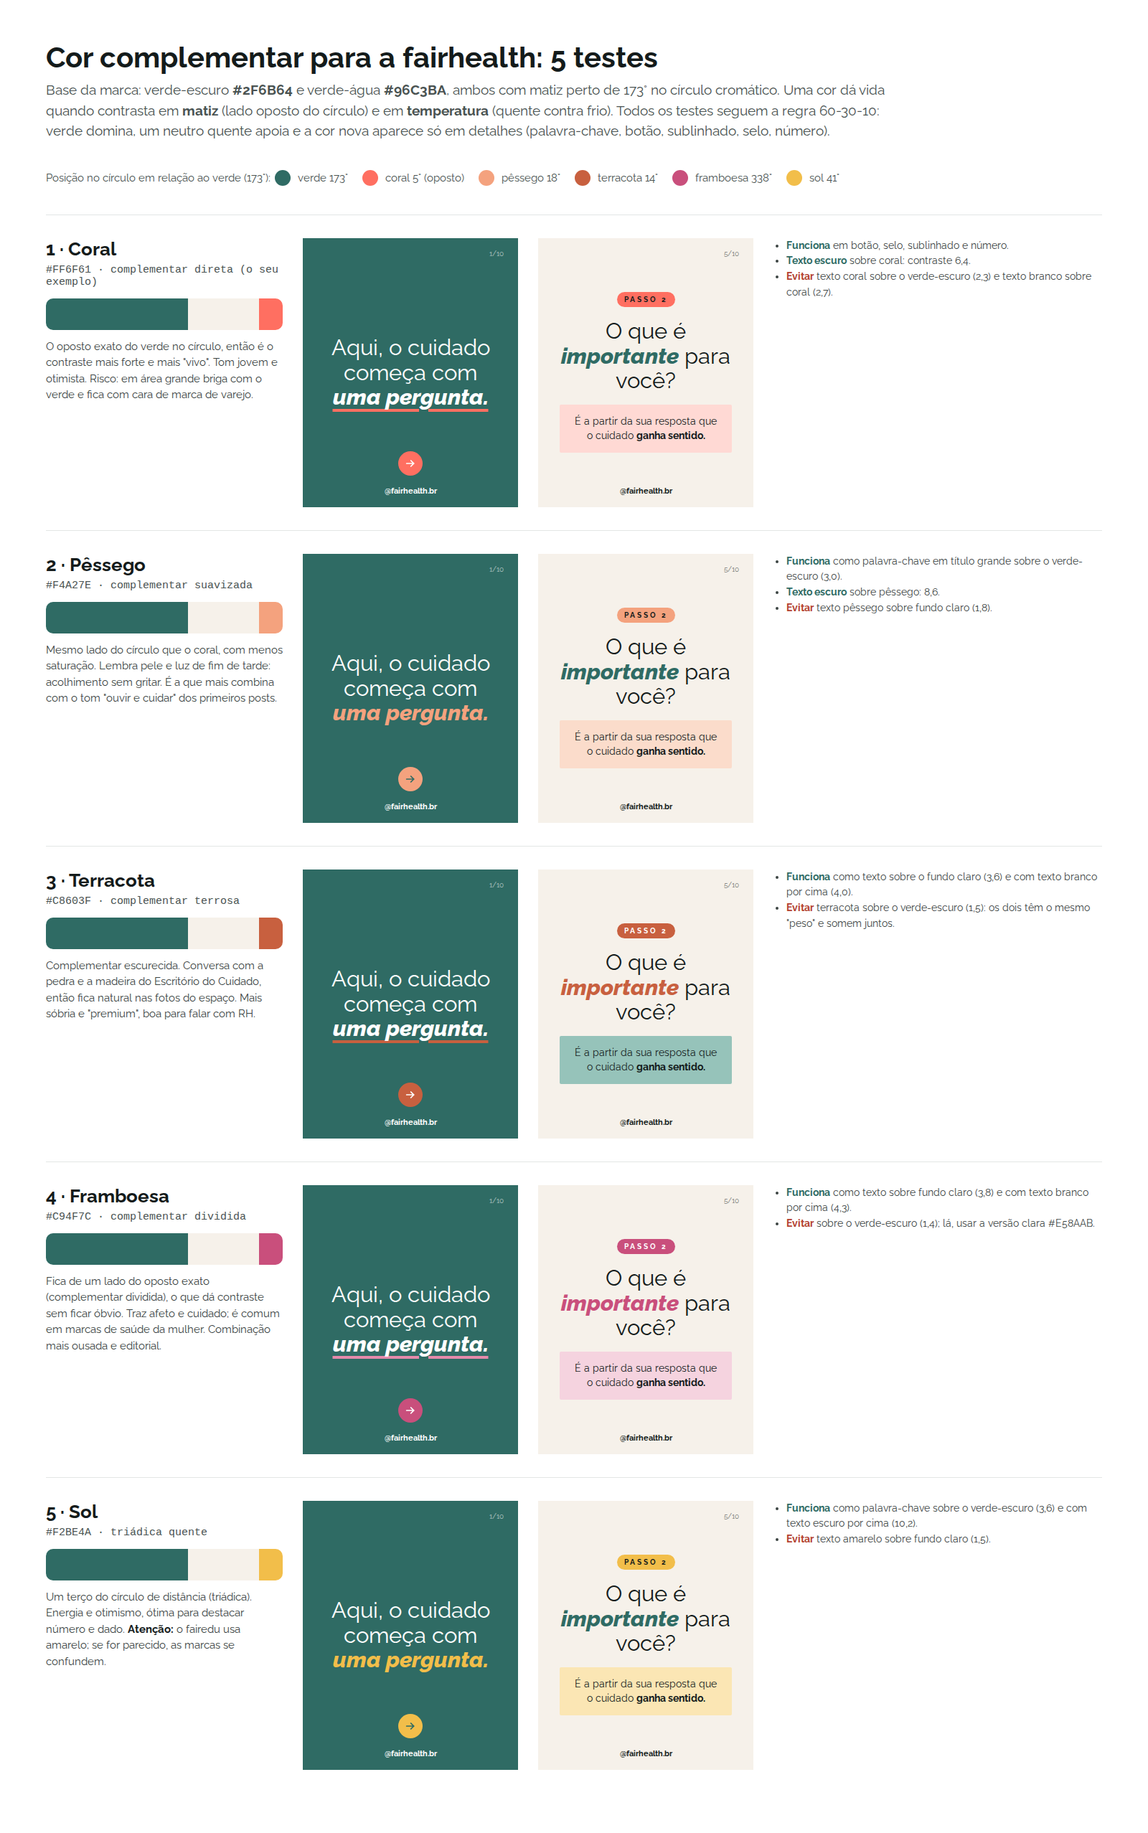
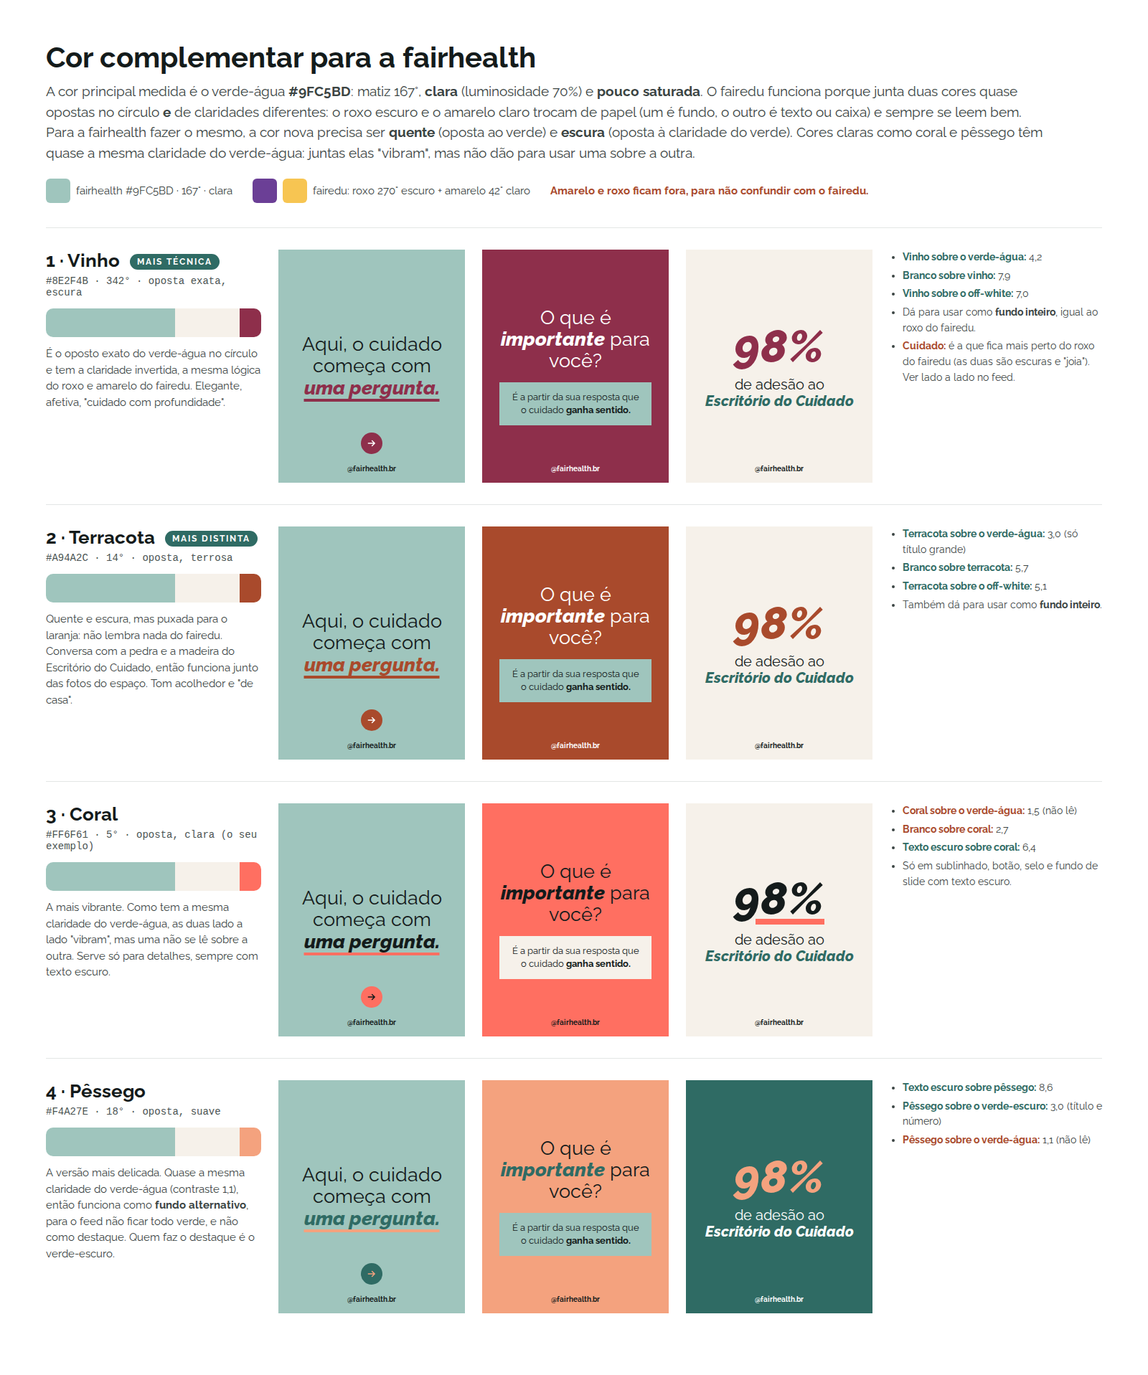
Color study: redo around measured main color and fairedu's two-color logic
Claude-Session: https://claude.ai/code/session_011JWhGAkUjJPXHMtv46EUoM

diff --git a/instagram/estudos/cores/index.html b/instagram/estudos/cores/index.html
@@ -4,94 +4,83 @@
 @font-face{font-family:Raleway;font-weight:400;src:url(../../marca/fontes/raleway-latin-400-normal.woff2)}
 @font-face{font-family:Raleway;font-weight:700;src:url(../../marca/fontes/raleway-latin-700-normal.woff2)}
 @font-face{font-family:Raleway;font-weight:800;font-style:italic;src:url(../../marca/fontes/raleway-latin-800-italic.woff2)}
-:root{--escuro:#2F6B64;--agua:#96C3BA;--menta:#BFE0D9;--off:#F6F1EA;--tinta:#141B1B}
+:root{--main:#9FC5BD;--escuro:#2F6B64;--off:#F6F1EA;--tinta:#141B1B}
 *{box-sizing:border-box;margin:0;padding:0}
 body{font-family:Raleway,sans-serif;background:#fff;color:var(--tinta);width:1600px;padding:56px 64px}
-h1{font-size:40px;font-weight:700;margin-bottom:8px}
-.intro{font-size:19px;line-height:1.5;color:#4a5352;max-width:1200px;margin-bottom:40px}
-.roda{display:flex;gap:6px;margin:14px 0 40px;align-items:center;font-size:15px;color:#4a5352}
-.roda span{display:inline-block;width:22px;height:22px;border-radius:50%;margin-right:4px;vertical-align:middle}
-.linha{display:grid;grid-template-columns:330px 300px 300px 1fr;gap:28px;align-items:start;padding:32px 0;border-top:1px solid #e3e6e5}
+h1{font-size:40px;font-weight:700;margin-bottom:10px}
+.intro{font-size:19px;line-height:1.5;color:#3b4443;max-width:1400px;margin-bottom:14px}
+.ref{display:flex;gap:28px;align-items:center;margin:22px 0 34px;font-size:15px;color:#3b4443}
+.ref .sw{display:inline-flex;align-items:center;gap:8px}
+.ref i{display:inline-block;width:34px;height:34px;border-radius:6px}
+.linha{display:grid;grid-template-columns:300px 260px 260px 260px 1fr;gap:24px;align-items:start;padding:30px 0;border-top:1px solid #e3e6e5}
 .nome{font-size:26px;font-weight:700}
-.hex{font-family:ui-monospace,monospace;font-size:15px;color:#4a5352;margin:6px 0 14px}
-.barra{display:flex;height:44px;border-radius:10px;overflow:hidden;margin-bottom:12px}
-.barra div{height:100%}
+.hex{font-family:ui-monospace,monospace;font-size:14px;color:#4a5352;margin:6px 0 14px}
+.barra{display:flex;height:40px;border-radius:10px;overflow:hidden;margin-bottom:12px}
 .nota{font-size:15px;line-height:1.5;color:#3b4443}
-.nota b{color:var(--tinta)}
-.mini{width:300px;height:375px;position:relative;display:flex;flex-direction:column;justify-content:center;align-items:center;text-align:center;padding:36px 30px;overflow:hidden}
-.mini h2{font-size:31px;line-height:1.12;font-weight:400}
+.mini{width:260px;height:325px;position:relative;display:flex;flex-direction:column;justify-content:center;align-items:center;text-align:center;padding:30px 24px;overflow:hidden}
+.mini h2{font-size:27px;line-height:1.12;font-weight:400}
 .mini h2 b{font-weight:800;font-style:italic}
-.mini p{font-size:14px;line-height:1.35;margin-top:14px}
-.mini .h{position:absolute;bottom:16px;left:0;right:0;font-size:11px;font-weight:700}
-.mini .pag{position:absolute;top:16px;right:20px;font-size:10px;opacity:.6}
+.mini .h{position:absolute;bottom:14px;left:0;right:0;font-size:10px;font-weight:700}
 .u{text-decoration:underline;text-decoration-thickness:4px;text-underline-offset:6px}
-.btn{position:absolute;bottom:44px;left:50%;transform:translateX(-50%);width:34px;height:34px;border-radius:50%;display:flex;align-items:center;justify-content:center}
-.caixa{padding:14px 16px;margin-top:16px;font-size:14px;line-height:1.4;border-radius:2px}
-.tag{display:inline-block;font-size:10px;font-weight:700;letter-spacing:3px;padding:5px 10px;border-radius:20px;margin-bottom:16px}
+.btn{position:absolute;bottom:40px;left:50%;transform:translateX(-50%);width:30px;height:30px;border-radius:50%;display:flex;align-items:center;justify-content:center}
+.caixa{padding:12px 14px;margin-top:14px;font-size:13px;line-height:1.4}
+.num{font-size:64px;font-weight:800;font-style:italic;line-height:1}
 .uso{font-size:14px;line-height:1.55;color:#3b4443}
-.uso li{margin-left:18px}
-.ok{color:#2F6B64;font-weight:700}.no{color:#B3412F;font-weight:700}
+.uso li{margin-left:18px;margin-bottom:4px}
+.ok{color:#2F6B64;font-weight:700}.no{color:#A94A2C;font-weight:700}
+.rec{display:inline-block;background:#2F6B64;color:#fff;font-size:12px;font-weight:700;letter-spacing:2px;padding:4px 10px;border-radius:20px;margin-left:8px;vertical-align:middle}
 </style></head><body>
 
-<h1>Cor complementar para a fairhealth: 5 testes</h1>
-<p class="intro">Base da marca: verde-escuro <b>#2F6B64</b> e verde-água <b>#96C3BA</b>, ambos com matiz perto de 173° no círculo cromático. Uma cor dá vida quando contrasta em <b>matiz</b> (lado oposto do círculo) e em <b>temperatura</b> (quente contra frio). Todos os testes seguem a regra 60-30-10: verde domina, um neutro quente apoia e a cor nova aparece só em detalhes (palavra-chave, botão, sublinhado, selo, número).</p>
-<div class="roda">Posição no círculo em relação ao verde (173°):
-  <span style="background:#2F6B64"></span>verde 173°
-  <span style="background:#FF6F61;margin-left:14px"></span>coral 5° (oposto)
-  <span style="background:#F4A27E;margin-left:14px"></span>pêssego 18°
-  <span style="background:#C8603F;margin-left:14px"></span>terracota 14°
-  <span style="background:#C94F7C;margin-left:14px"></span>framboesa 338°
-  <span style="background:#F2BE4A;margin-left:14px"></span>sol 41°
+<h1>Cor complementar para a fairhealth</h1>
+<p class="intro">A cor principal medida é o verde-água <b>#9FC5BD</b>: matiz 167°, <b>clara</b> (luminosidade 70%) e <b>pouco saturada</b>. O fairedu funciona porque junta duas cores quase opostas no círculo <b>e</b> de claridades diferentes: o roxo escuro e o amarelo claro trocam de papel (um é fundo, o outro é texto ou caixa) e sempre se leem bem. Para a fairhealth fazer o mesmo, a cor nova precisa ser <b>quente</b> (oposta ao verde) e <b>escura</b> (oposta à claridade do verde). Cores claras como coral e pêssego têm quase a mesma claridade do verde-água: juntas elas "vibram", mas não dão para usar uma sobre a outra.</p>
+<div class="ref">
+  <span class="sw"><i style="background:#9FC5BD"></i>fairhealth #9FC5BD · 167° · clara</span>
+  <span class="sw"><i style="background:#6B3F96"></i><i style="background:#F7C552"></i>fairedu: roxo 270° escuro + amarelo 42° claro</span>
+  <span class="sw" style="color:#A94A2C;font-weight:700">Amarelo e roxo ficam fora, para não confundir com o fairedu.</span>
 </div>
 
-<!-- 1 coral -->
+<!-- 1 vinho -->
 <div class="linha">
-  <div><div class="nome">1 · Coral</div><div class="hex">#FF6F61 · complementar direta (o seu exemplo)</div>
-    <div class="barra"><div style="flex:6;background:#2F6B64"></div><div style="flex:3;background:#F6F1EA"></div><div style="flex:1;background:#FF6F61"></div></div>
-    <p class="nota">O oposto exato do verde no círculo, então é o contraste mais forte e mais "vivo". Tom jovem e otimista. Risco: em área grande briga com o verde e fica com cara de marca de varejo.</p></div>
-  <div class="mini" style="background:#2F6B64;color:#fff"><div class="pag">1/10</div><h2>Aqui, o cuidado começa com <b class="u" style="text-decoration-color:#FF6F61">uma pergunta.</b></h2><div class="btn" style="background:#FF6F61"><svg width="16" height="16" viewBox="0 0 24 24" fill="none" stroke="#fff" stroke-width="2.6" stroke-linecap="round"><path d="M4 12h15M13 6l6 6-6 6"/></svg></div><div class="h">@fairhealth.br</div></div>
-  <div class="mini" style="background:#F6F1EA"><div class="pag">5/10</div><span class="tag" style="background:#FF6F61;color:#141B1B">PASSO 2</span><h2>O que é <b style="color:#2F6B64">importante</b> para você?</h2><div class="caixa" style="background:#FFD9D4">É a partir da sua resposta que o cuidado <b>ganha sentido.</b></div><div class="h">@fairhealth.br</div></div>
-  <ul class="uso"><li><span class="ok">Funciona</span> em botão, selo, sublinhado e número.</li><li><span class="ok">Texto escuro</span> sobre coral: contraste 6,4.</li><li><span class="no">Evitar</span> texto coral sobre o verde-escuro (2,3) e texto branco sobre coral (2,7).</li></ul>
+  <div><div class="nome">1 · Vinho <span class="rec">MAIS TÉCNICA</span></div><div class="hex">#8E2F4B · 342° · oposta exata, escura</div>
+    <div class="barra"><div style="flex:6;background:#9FC5BD"></div><div style="flex:3;background:#F6F1EA"></div><div style="flex:1;background:#8E2F4B"></div></div>
+    <p class="nota">É o oposto exato do verde-água no círculo e tem a claridade invertida, a mesma lógica do roxo e amarelo do fairedu. Elegante, afetiva, "cuidado com profundidade".</p></div>
+  <div class="mini" style="background:#9FC5BD"><h2>Aqui, o cuidado começa com <b class="u" style="color:#8E2F4B;text-decoration-color:#8E2F4B">uma pergunta.</b></h2><div class="btn" style="background:#8E2F4B"><svg width="14" height="14" viewBox="0 0 24 24" fill="none" stroke="#fff" stroke-width="2.6" stroke-linecap="round"><path d="M4 12h15M13 6l6 6-6 6"/></svg></div><div class="h">@fairhealth.br</div></div>
+  <div class="mini" style="background:#8E2F4B;color:#fff"><h2>O que é <b>importante</b> para você?</h2><div class="caixa" style="background:#9FC5BD;color:#141B1B">É a partir da sua resposta que o cuidado <b>ganha sentido.</b></div><div class="h">@fairhealth.br</div></div>
+  <div class="mini" style="background:#F6F1EA"><div class="num" style="color:#8E2F4B">98%</div><h2 style="font-size:20px;margin-top:10px">de adesão ao <b style="color:#2F6B64">Escritório do Cuidado</b></h2><div class="h">@fairhealth.br</div></div>
+  <ul class="uso"><li><span class="ok">Vinho sobre o verde-água:</span> 4,2</li><li><span class="ok">Branco sobre vinho:</span> 7,9</li><li><span class="ok">Vinho sobre o off-white:</span> 7,0</li><li>Dá para usar como <b>fundo inteiro</b>, igual ao roxo do fairedu.</li><li><span class="no">Cuidado:</span> é a que fica mais perto do roxo do fairedu (as duas são escuras e "joia"). Ver lado a lado no feed.</li></ul>
 </div>
 
-<!-- 2 pêssego -->
+<!-- 2 terracota -->
 <div class="linha">
-  <div><div class="nome">2 · Pêssego</div><div class="hex">#F4A27E · complementar suavizada</div>
-    <div class="barra"><div style="flex:6;background:#2F6B64"></div><div style="flex:3;background:#F6F1EA"></div><div style="flex:1;background:#F4A27E"></div></div>
-    <p class="nota">Mesmo lado do círculo que o coral, com menos saturação. Lembra pele e luz de fim de tarde: acolhimento sem gritar. É a que mais combina com o tom "ouvir e cuidar" dos primeiros posts.</p></div>
-  <div class="mini" style="background:#2F6B64;color:#fff"><div class="pag">1/10</div><h2>Aqui, o cuidado começa com <b style="color:#F4A27E">uma pergunta.</b></h2><div class="btn" style="background:#F4A27E"><svg width="16" height="16" viewBox="0 0 24 24" fill="none" stroke="#2F6B64" stroke-width="2.6" stroke-linecap="round"><path d="M4 12h15M13 6l6 6-6 6"/></svg></div><div class="h">@fairhealth.br</div></div>
-  <div class="mini" style="background:#F6F1EA"><div class="pag">5/10</div><span class="tag" style="background:#F4A27E;color:#141B1B">PASSO 2</span><h2>O que é <b style="color:#2F6B64">importante</b> para você?</h2><div class="caixa" style="background:#FBDCCB">É a partir da sua resposta que o cuidado <b>ganha sentido.</b></div><div class="h">@fairhealth.br</div></div>
-  <ul class="uso"><li><span class="ok">Funciona</span> como palavra-chave em título grande sobre o verde-escuro (3,0).</li><li><span class="ok">Texto escuro</span> sobre pêssego: 8,6.</li><li><span class="no">Evitar</span> texto pêssego sobre fundo claro (1,8).</li></ul>
+  <div><div class="nome">2 · Terracota <span class="rec">MAIS DISTINTA</span></div><div class="hex">#A94A2C · 14° · oposta, terrosa</div>
+    <div class="barra"><div style="flex:6;background:#9FC5BD"></div><div style="flex:3;background:#F6F1EA"></div><div style="flex:1;background:#A94A2C"></div></div>
+    <p class="nota">Quente e escura, mas puxada para o laranja: não lembra nada do fairedu. Conversa com a pedra e a madeira do Escritório do Cuidado, então funciona junto das fotos do espaço. Tom acolhedor e "de casa".</p></div>
+  <div class="mini" style="background:#9FC5BD"><h2>Aqui, o cuidado começa com <b class="u" style="color:#A94A2C;text-decoration-color:#A94A2C">uma pergunta.</b></h2><div class="btn" style="background:#A94A2C"><svg width="14" height="14" viewBox="0 0 24 24" fill="none" stroke="#fff" stroke-width="2.6" stroke-linecap="round"><path d="M4 12h15M13 6l6 6-6 6"/></svg></div><div class="h">@fairhealth.br</div></div>
+  <div class="mini" style="background:#A94A2C;color:#fff"><h2>O que é <b>importante</b> para você?</h2><div class="caixa" style="background:#9FC5BD;color:#141B1B">É a partir da sua resposta que o cuidado <b>ganha sentido.</b></div><div class="h">@fairhealth.br</div></div>
+  <div class="mini" style="background:#F6F1EA"><div class="num" style="color:#A94A2C">98%</div><h2 style="font-size:20px;margin-top:10px">de adesão ao <b style="color:#2F6B64">Escritório do Cuidado</b></h2><div class="h">@fairhealth.br</div></div>
+  <ul class="uso"><li><span class="ok">Terracota sobre o verde-água:</span> 3,0 (só título grande)</li><li><span class="ok">Branco sobre terracota:</span> 5,7</li><li><span class="ok">Terracota sobre o off-white:</span> 5,1</li><li>Também dá para usar como <b>fundo inteiro</b>.</li></ul>
 </div>
 
-<!-- 3 terracota -->
+<!-- 3 coral -->
 <div class="linha">
-  <div><div class="nome">3 · Terracota</div><div class="hex">#C8603F · complementar terrosa</div>
-    <div class="barra"><div style="flex:6;background:#2F6B64"></div><div style="flex:3;background:#F6F1EA"></div><div style="flex:1;background:#C8603F"></div></div>
-    <p class="nota">Complementar escurecida. Conversa com a pedra e a madeira do Escritório do Cuidado, então fica natural nas fotos do espaço. Mais sóbria e "premium", boa para falar com RH.</p></div>
-  <div class="mini" style="background:#2F6B64;color:#fff"><div class="pag">1/10</div><h2>Aqui, o cuidado começa com <b class="u" style="text-decoration-color:#C8603F">uma pergunta.</b></h2><div class="btn" style="background:#C8603F"><svg width="16" height="16" viewBox="0 0 24 24" fill="none" stroke="#fff" stroke-width="2.6" stroke-linecap="round"><path d="M4 12h15M13 6l6 6-6 6"/></svg></div><div class="h">@fairhealth.br</div></div>
-  <div class="mini" style="background:#F6F1EA"><div class="pag">5/10</div><span class="tag" style="background:#C8603F;color:#fff">PASSO 2</span><h2>O que é <b style="color:#C8603F">importante</b> para você?</h2><div class="caixa" style="background:#96C3BA">É a partir da sua resposta que o cuidado <b>ganha sentido.</b></div><div class="h">@fairhealth.br</div></div>
-  <ul class="uso"><li><span class="ok">Funciona</span> como texto sobre o fundo claro (3,6) e com texto branco por cima (4,0).</li><li><span class="no">Evitar</span> terracota sobre o verde-escuro (1,5): os dois têm o mesmo "peso" e somem juntos.</li></ul>
+  <div><div class="nome">3 · Coral</div><div class="hex">#FF6F61 · 5° · oposta, clara (o seu exemplo)</div>
+    <div class="barra"><div style="flex:6;background:#9FC5BD"></div><div style="flex:3;background:#F6F1EA"></div><div style="flex:1;background:#FF6F61"></div></div>
+    <p class="nota">A mais vibrante. Como tem a mesma claridade do verde-água, as duas lado a lado "vibram", mas uma não se lê sobre a outra. Serve só para detalhes, sempre com texto escuro.</p></div>
+  <div class="mini" style="background:#9FC5BD"><h2>Aqui, o cuidado começa com <b class="u" style="text-decoration-color:#FF6F61">uma pergunta.</b></h2><div class="btn" style="background:#FF6F61"><svg width="14" height="14" viewBox="0 0 24 24" fill="none" stroke="#141B1B" stroke-width="2.6" stroke-linecap="round"><path d="M4 12h15M13 6l6 6-6 6"/></svg></div><div class="h">@fairhealth.br</div></div>
+  <div class="mini" style="background:#FF6F61"><h2>O que é <b>importante</b> para você?</h2><div class="caixa" style="background:#F6F1EA">É a partir da sua resposta que o cuidado <b>ganha sentido.</b></div><div class="h">@fairhealth.br</div></div>
+  <div class="mini" style="background:#F6F1EA"><div class="num" style="color:#141B1B;text-decoration:underline;text-decoration-color:#FF6F61;text-decoration-thickness:8px;text-underline-offset:6px">98%</div><h2 style="font-size:20px;margin-top:14px">de adesão ao <b style="color:#2F6B64">Escritório do Cuidado</b></h2><div class="h">@fairhealth.br</div></div>
+  <ul class="uso"><li><span class="no">Coral sobre o verde-água:</span> 1,5 (não lê)</li><li><span class="no">Branco sobre coral:</span> 2,7</li><li><span class="ok">Texto escuro sobre coral:</span> 6,4</li><li>Só em sublinhado, botão, selo e fundo de slide com texto escuro.</li></ul>
 </div>
 
-<!-- 4 framboesa -->
+<!-- 4 pêssego -->
 <div class="linha">
-  <div><div class="nome">4 · Framboesa</div><div class="hex">#C94F7C · complementar dividida</div>
-    <div class="barra"><div style="flex:6;background:#2F6B64"></div><div style="flex:3;background:#F6F1EA"></div><div style="flex:1;background:#C94F7C"></div></div>
-    <p class="nota">Fica de um lado do oposto exato (complementar dividida), o que dá contraste sem ficar óbvio. Traz afeto e cuidado; é comum em marcas de saúde da mulher. Combinação mais ousada e editorial.</p></div>
-  <div class="mini" style="background:#2F6B64;color:#fff"><div class="pag">1/10</div><h2>Aqui, o cuidado começa com <b class="u" style="text-decoration-color:#E58AAB">uma pergunta.</b></h2><div class="btn" style="background:#C94F7C"><svg width="16" height="16" viewBox="0 0 24 24" fill="none" stroke="#fff" stroke-width="2.6" stroke-linecap="round"><path d="M4 12h15M13 6l6 6-6 6"/></svg></div><div class="h">@fairhealth.br</div></div>
-  <div class="mini" style="background:#F6F1EA"><div class="pag">5/10</div><span class="tag" style="background:#C94F7C;color:#fff">PASSO 2</span><h2>O que é <b style="color:#C94F7C">importante</b> para você?</h2><div class="caixa" style="background:#F5D3DF">É a partir da sua resposta que o cuidado <b>ganha sentido.</b></div><div class="h">@fairhealth.br</div></div>
-  <ul class="uso"><li><span class="ok">Funciona</span> como texto sobre fundo claro (3,8) e com texto branco por cima (4,3).</li><li><span class="no">Evitar</span> sobre o verde-escuro (1,4); lá, usar a versão clara #E58AAB.</li></ul>
-</div>
-
-<!-- 5 sol -->
-<div class="linha">
-  <div><div class="nome">5 · Sol</div><div class="hex">#F2BE4A · triádica quente</div>
-    <div class="barra"><div style="flex:6;background:#2F6B64"></div><div style="flex:3;background:#F6F1EA"></div><div style="flex:1;background:#F2BE4A"></div></div>
-    <p class="nota">Um terço do círculo de distância (triádica). Energia e otimismo, ótima para destacar número e dado. <b>Atenção:</b> o fairedu usa amarelo; se for parecido, as marcas se confundem.</p></div>
-  <div class="mini" style="background:#2F6B64;color:#fff"><div class="pag">1/10</div><h2>Aqui, o cuidado começa com <b style="color:#F2BE4A">uma pergunta.</b></h2><div class="btn" style="background:#F2BE4A"><svg width="16" height="16" viewBox="0 0 24 24" fill="none" stroke="#2F6B64" stroke-width="2.6" stroke-linecap="round"><path d="M4 12h15M13 6l6 6-6 6"/></svg></div><div class="h">@fairhealth.br</div></div>
-  <div class="mini" style="background:#F6F1EA"><div class="pag">5/10</div><span class="tag" style="background:#F2BE4A;color:#141B1B">PASSO 2</span><h2>O que é <b style="color:#2F6B64">importante</b> para você?</h2><div class="caixa" style="background:#FBE6B4">É a partir da sua resposta que o cuidado <b>ganha sentido.</b></div><div class="h">@fairhealth.br</div></div>
-  <ul class="uso"><li><span class="ok">Funciona</span> como palavra-chave sobre o verde-escuro (3,6) e com texto escuro por cima (10,2).</li><li><span class="no">Evitar</span> texto amarelo sobre fundo claro (1,5).</li></ul>
+  <div><div class="nome">4 · Pêssego</div><div class="hex">#F4A27E · 18° · oposta, suave</div>
+    <div class="barra"><div style="flex:6;background:#9FC5BD"></div><div style="flex:3;background:#F6F1EA"></div><div style="flex:1;background:#F4A27E"></div></div>
+    <p class="nota">A versão mais delicada. Quase a mesma claridade do verde-água (contraste 1,1), então funciona como <b>fundo alternativo</b>, para o feed não ficar todo verde, e não como destaque. Quem faz o destaque é o verde-escuro.</p></div>
+  <div class="mini" style="background:#9FC5BD"><h2>Aqui, o cuidado começa com <b class="u" style="color:#2F6B64;text-decoration-color:#F4A27E">uma pergunta.</b></h2><div class="btn" style="background:#2F6B64"><svg width="14" height="14" viewBox="0 0 24 24" fill="none" stroke="#F4A27E" stroke-width="2.6" stroke-linecap="round"><path d="M4 12h15M13 6l6 6-6 6"/></svg></div><div class="h">@fairhealth.br</div></div>
+  <div class="mini" style="background:#F4A27E"><h2>O que é <b style="color:#2F6B64">importante</b> para você?</h2><div class="caixa" style="background:#9FC5BD">É a partir da sua resposta que o cuidado <b>ganha sentido.</b></div><div class="h">@fairhealth.br</div></div>
+  <div class="mini" style="background:#2F6B64;color:#fff"><div class="num" style="color:#F4A27E">98%</div><h2 style="font-size:20px;margin-top:10px">de adesão ao <b>Escritório do Cuidado</b></h2><div class="h">@fairhealth.br</div></div>
+  <ul class="uso"><li><span class="ok">Texto escuro sobre pêssego:</span> 8,6</li><li><span class="ok">Pêssego sobre o verde-escuro:</span> 3,0 (título e número)</li><li><span class="no">Pêssego sobre o verde-água:</span> 1,1 (não lê)</li></ul>
 </div>
 
 </body></html>

diff --git a/instagram/voice.md b/instagram/voice.md
@@ -126,7 +126,7 @@ Os trechos aprovados ficam em `instagram/depoimentos.md`.
 Os arquivos ficam em `instagram/marca/`. Resumo dos materiais institucionais
 em `instagram/referencias.md`.
 
-- **Cores (tiradas da logo):** verde-água `#96C3BA` (principal), quase-preto
+- **Cores (tiradas da logo):** verde-água `#9FC5BD` (principal, medido na arte oficial em 02/10; antes usávamos `#96C3BA`), quase-preto
   `#141B1B` (texto), off-white `#F8F8F6` (fundo). Uma única cor de destaque.
 - **Slogan:** « Fazemos o certo pelos motivos certos »
 - **Estilo visual (modelo @fairedu.br):**
@@ -154,6 +154,7 @@ em `instagram/referencias.md`.
   agradecimento e stickers nos Stories. Nunca junto de dado ou número sério.
   **[PENDENTE]** Substituir pelo PNG final com fundo transparente.
 - Uma única logo por peça.
+- **Cor complementar:** em teste. Estudo em `instagram/estudos/cores/` (vinho, terracota, coral, pêssego). Amarelo e roxo ficam fora porque são as cores do fairedu.
 
 ## A chamada final
 
